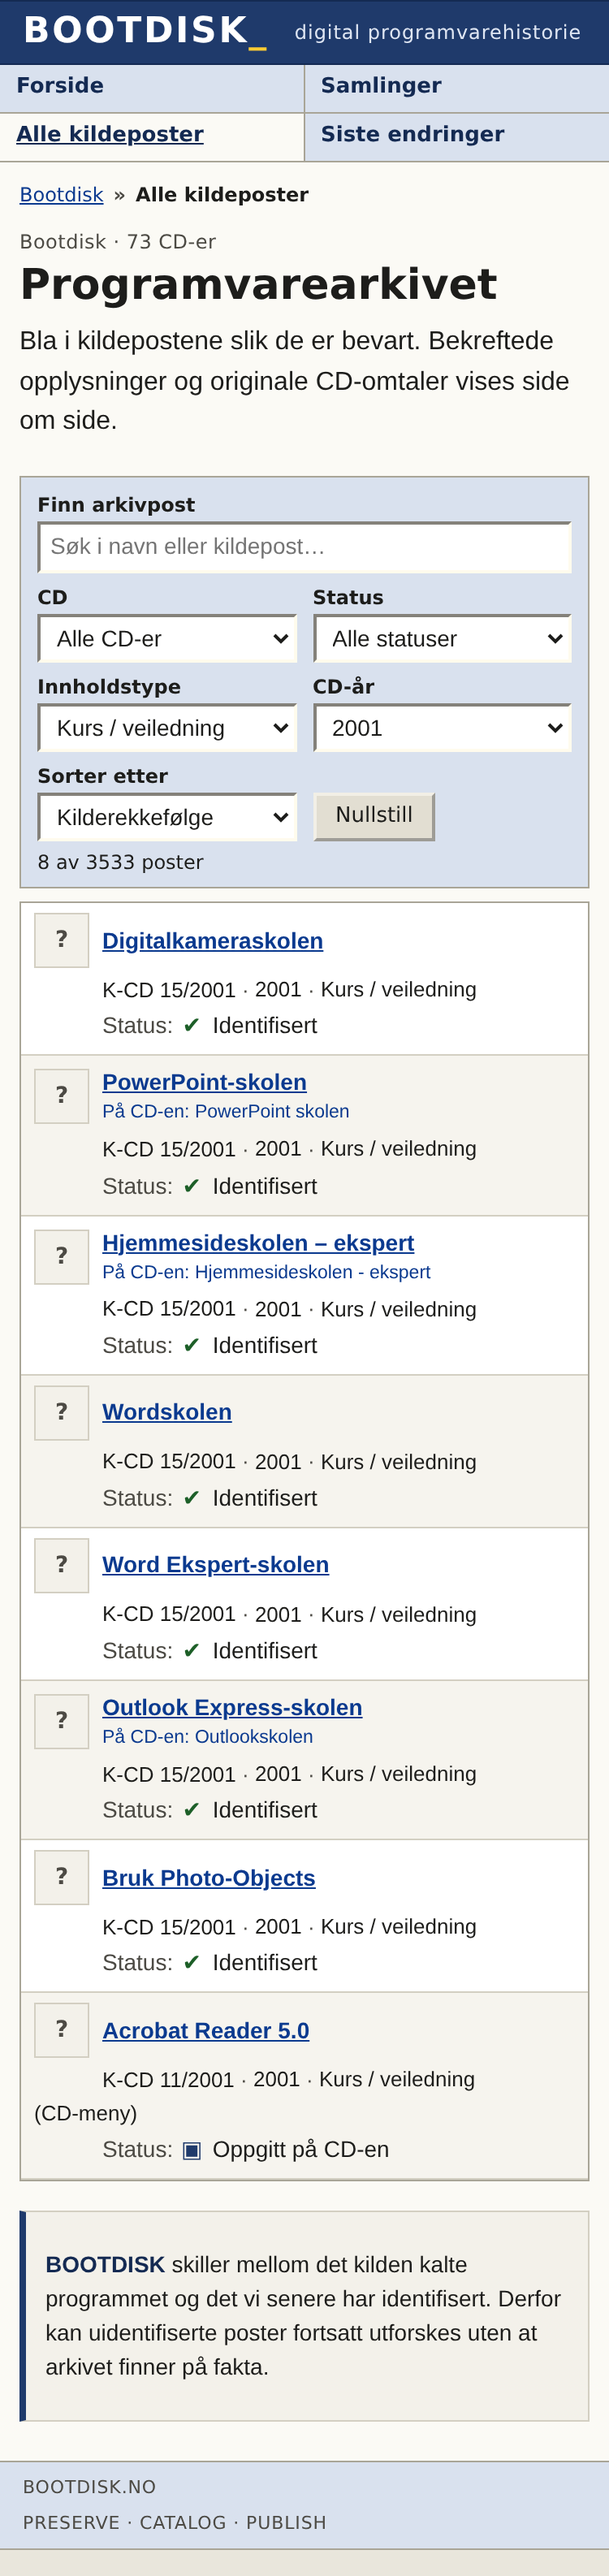
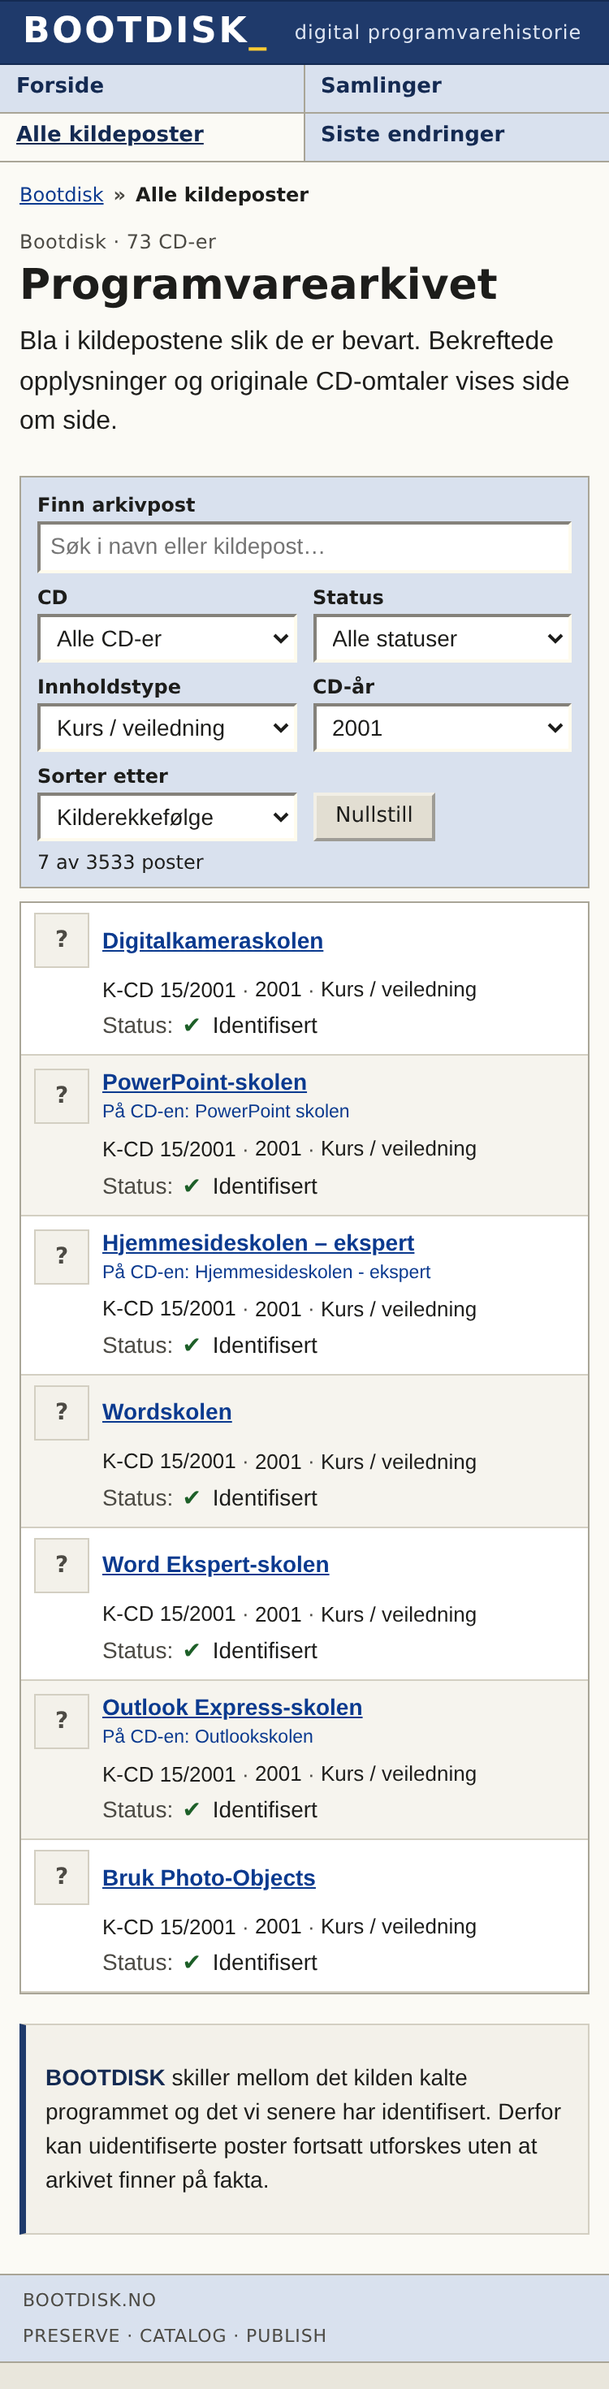
Docs: update rc27 sample counts and course screenshot after the Skole change
Claude-Session: https://claude.ai/code/session_01Sspk3yHp8mePdTfWrSSavW

diff --git a/docs/archive-sort-filter.md b/docs/archive-sort-filter.md
@@ -111,7 +111,7 @@ CD-år i rc27: 2000: 229, 2001: 959, 2002: 339, 2008: 246, 2009: 137, 2012: 212,
 Fordelingen *etter* utvidelse er ikke målt på hele rc27: Macen hadde for lite ledig plass til
 at skallmiljøet startet, så detaljpostene kunne bare hentes enkeltvis. Utvidelsen er prøvd på
 37 ekte detaljposter (stikkprøve over CD-ene): 4 Spill og 4 Program fra Catalog, 1 Skriftpakke,
-3 Spill, 3 Kurs, 2 Program og 1 Artikkel fra CD-menyen, 19 «Ikke oppgitt». Funn i stikkprøven:
+3 Spill, 2 Kurs, 2 Program og 1 Artikkel fra CD-menyen, 20 «Ikke oppgitt». Funn i stikkprøven:
 
 - «Skole» beskriver menyplassering og vises som «På CD-en: Skole». Det gir ikke kurs alene. En dokumentert type eller en entydig gruppe som «Videokurs» avgjør typen.
 - CD-ene fra 2008 har tomme menygrupper, så de blir «Ikke oppgitt» uansett.
@@ -149,7 +149,7 @@ I `docs/archive-sort-filter/`. Ikonene er fjernet i bildene fra rc27 (butikken v
 
 1. rc27, gammel indeks: Spill, nyeste CD først (13 treff, bare Catalog-typer).
 2. rc27 med menygrupper for de 37 stikkprøvene: Spill, nyeste først (16 treff, tre fra CD-menyen).
-3. Samme, 375 px: Kurs / veiledning + 2001 (åtte treff, deriblant Acrobat Reader-funnet).
+3. Samme, 375 px: Kurs / veiledning + 2001 (sju treff; Acrobat Reader under «Skole» er ikke med).
 4. Samme, 320 px: Spill, Navn A–Å.
 5. PRØVEDATA: Spill, nyeste først.
 6. PRØVEDATA, 375 px: gyldig kombinasjon uten treff.
